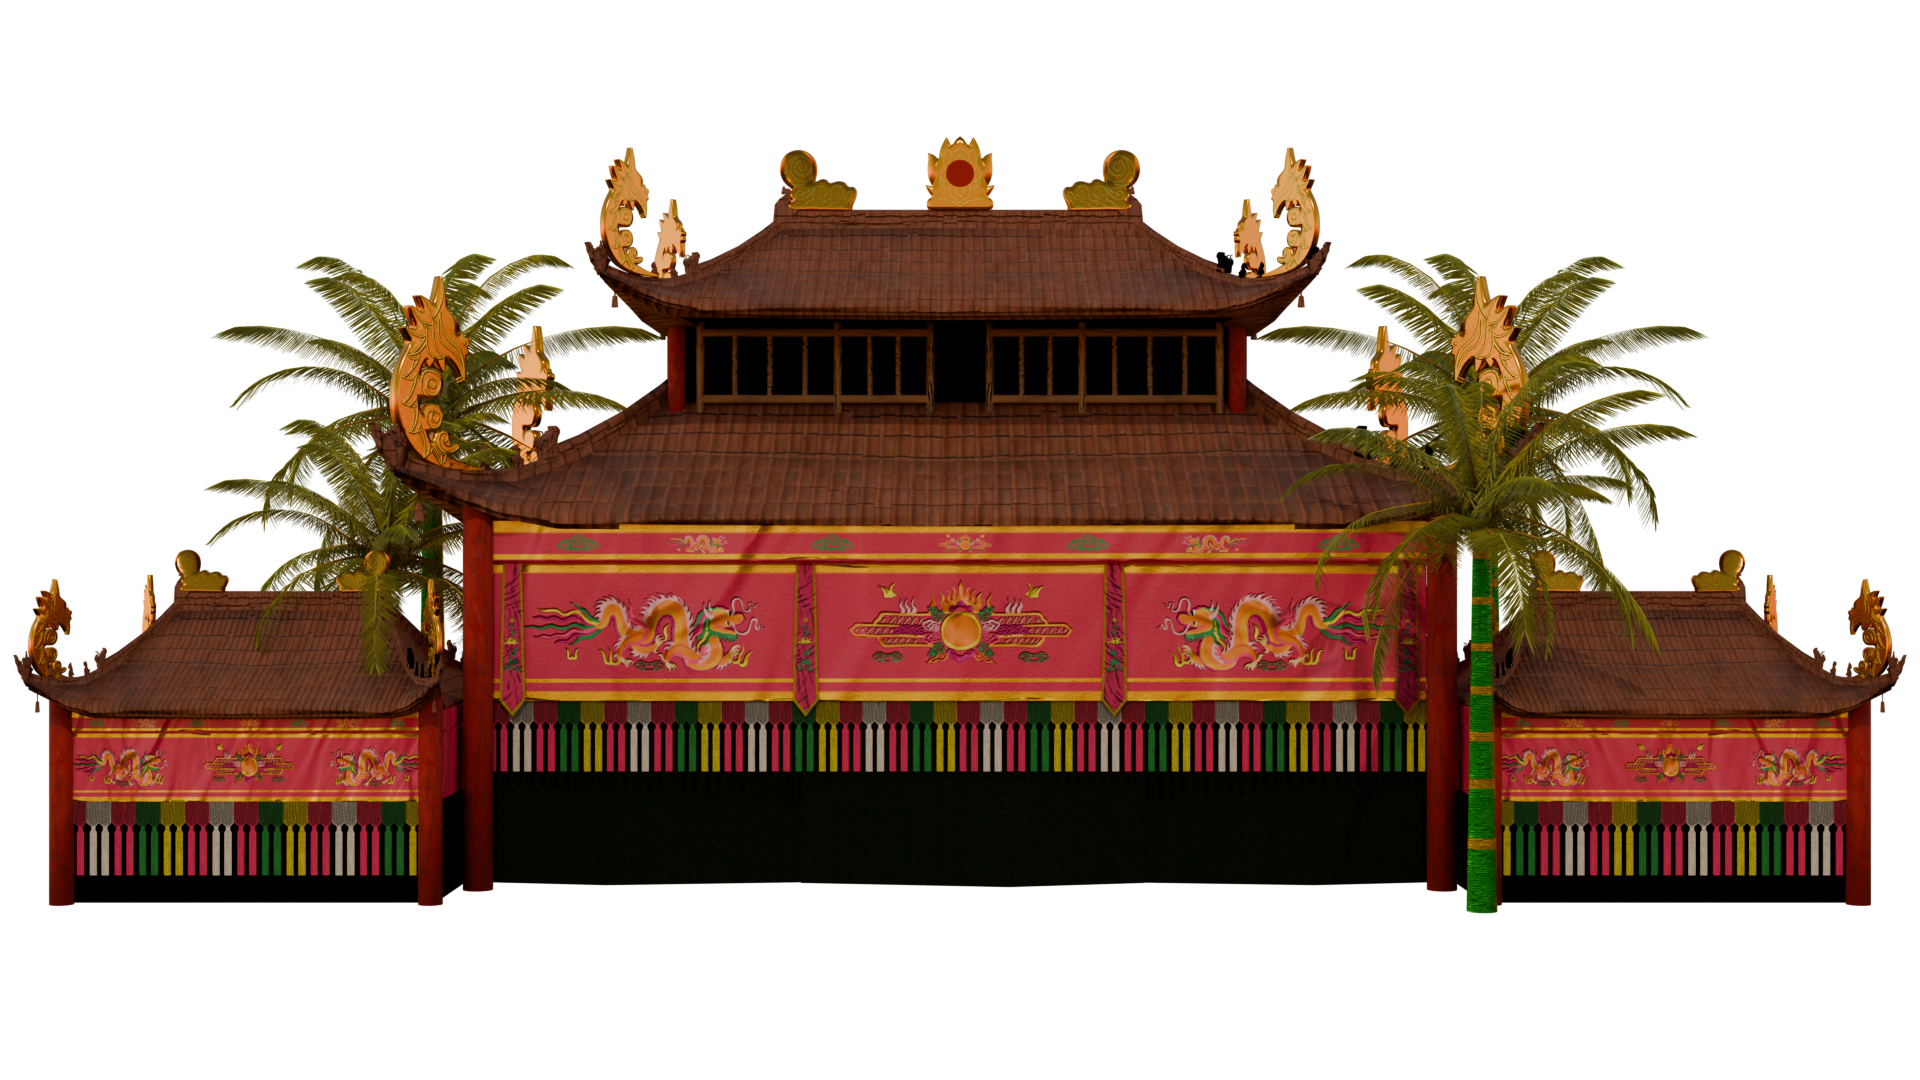
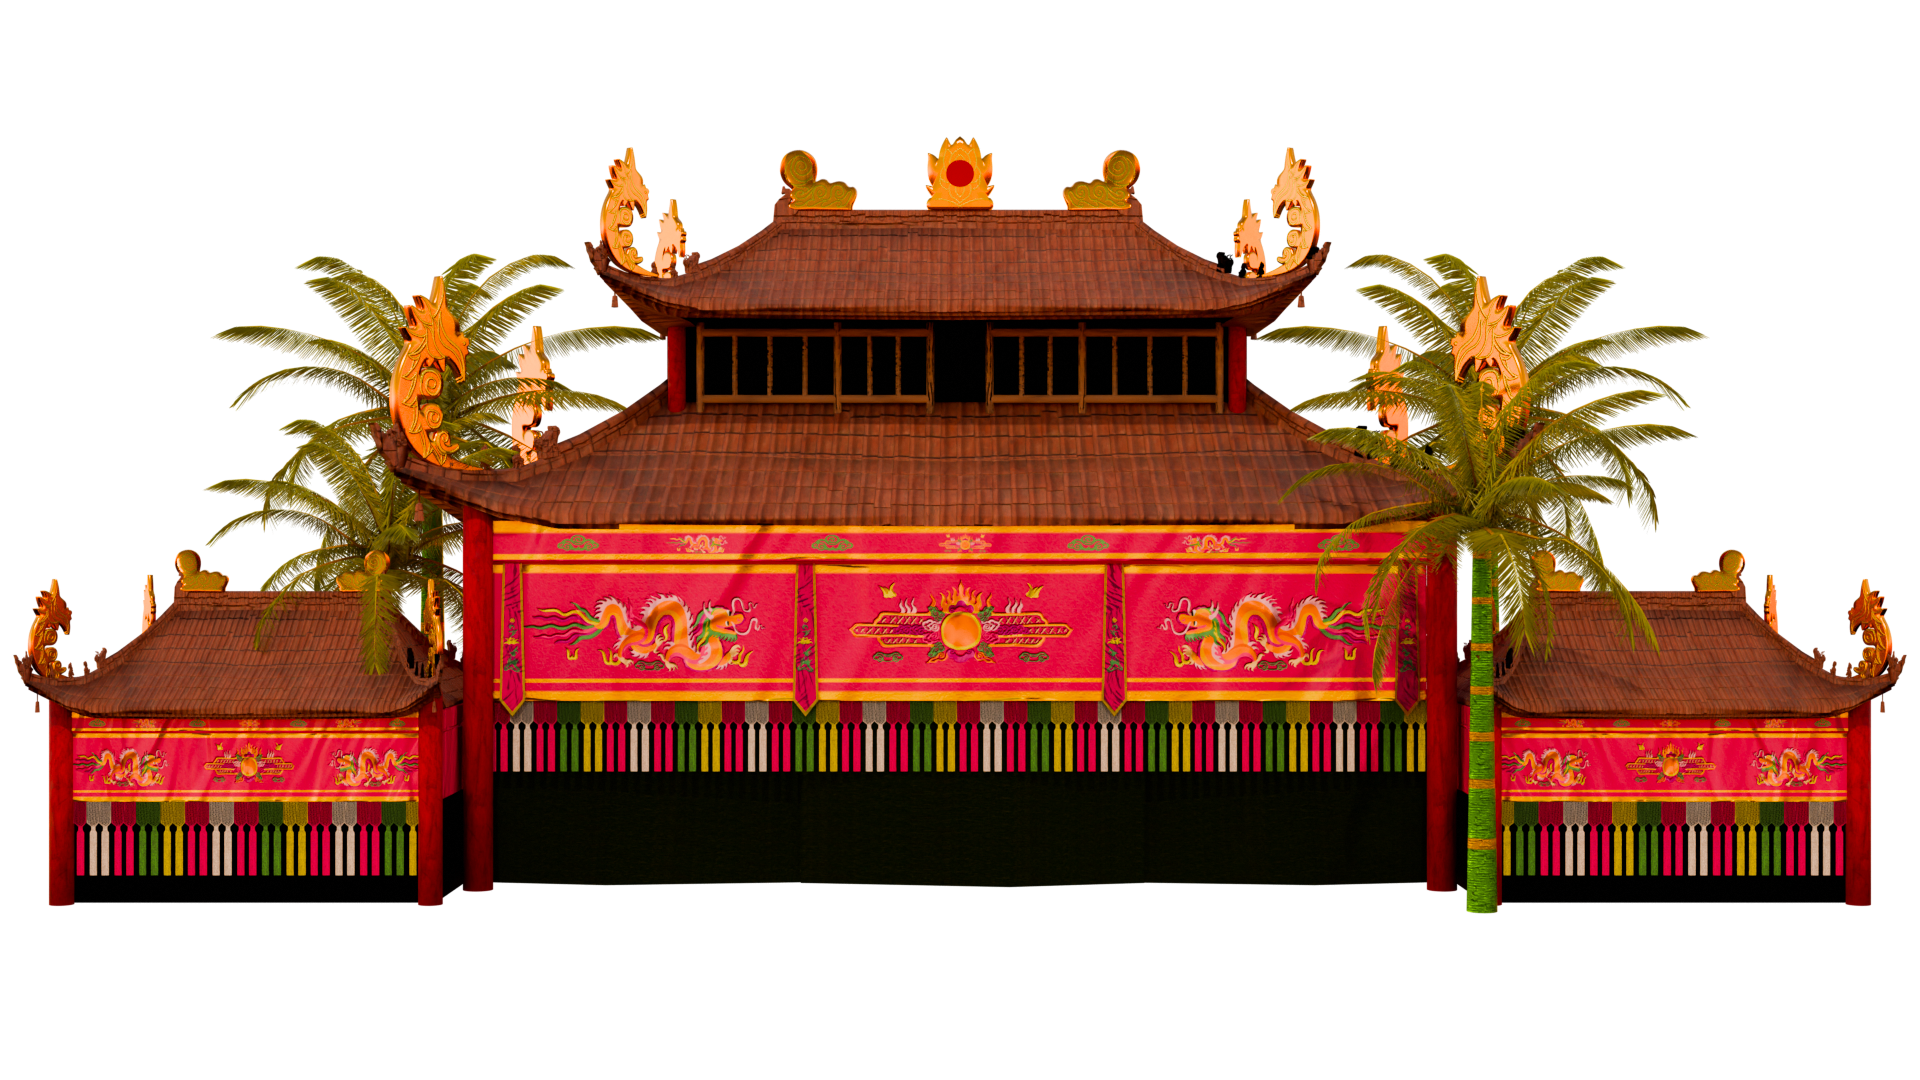
saturate chua pic

diff --git a/index.html b/index.html
@@ -107,7 +107,7 @@
         <!-- ===== Fluid Gallery Section ===== -->
         <section id="gallery" class="content-section">
             <div class="container"> <!-- Container for the heading -->
-                 <h2>Screenshots</h2>
+                 <h2>Gameplay previews</h2>
             </div>
 
             <!-- *** Wrapper for Gallery, Buttons, and Fade *** -->
